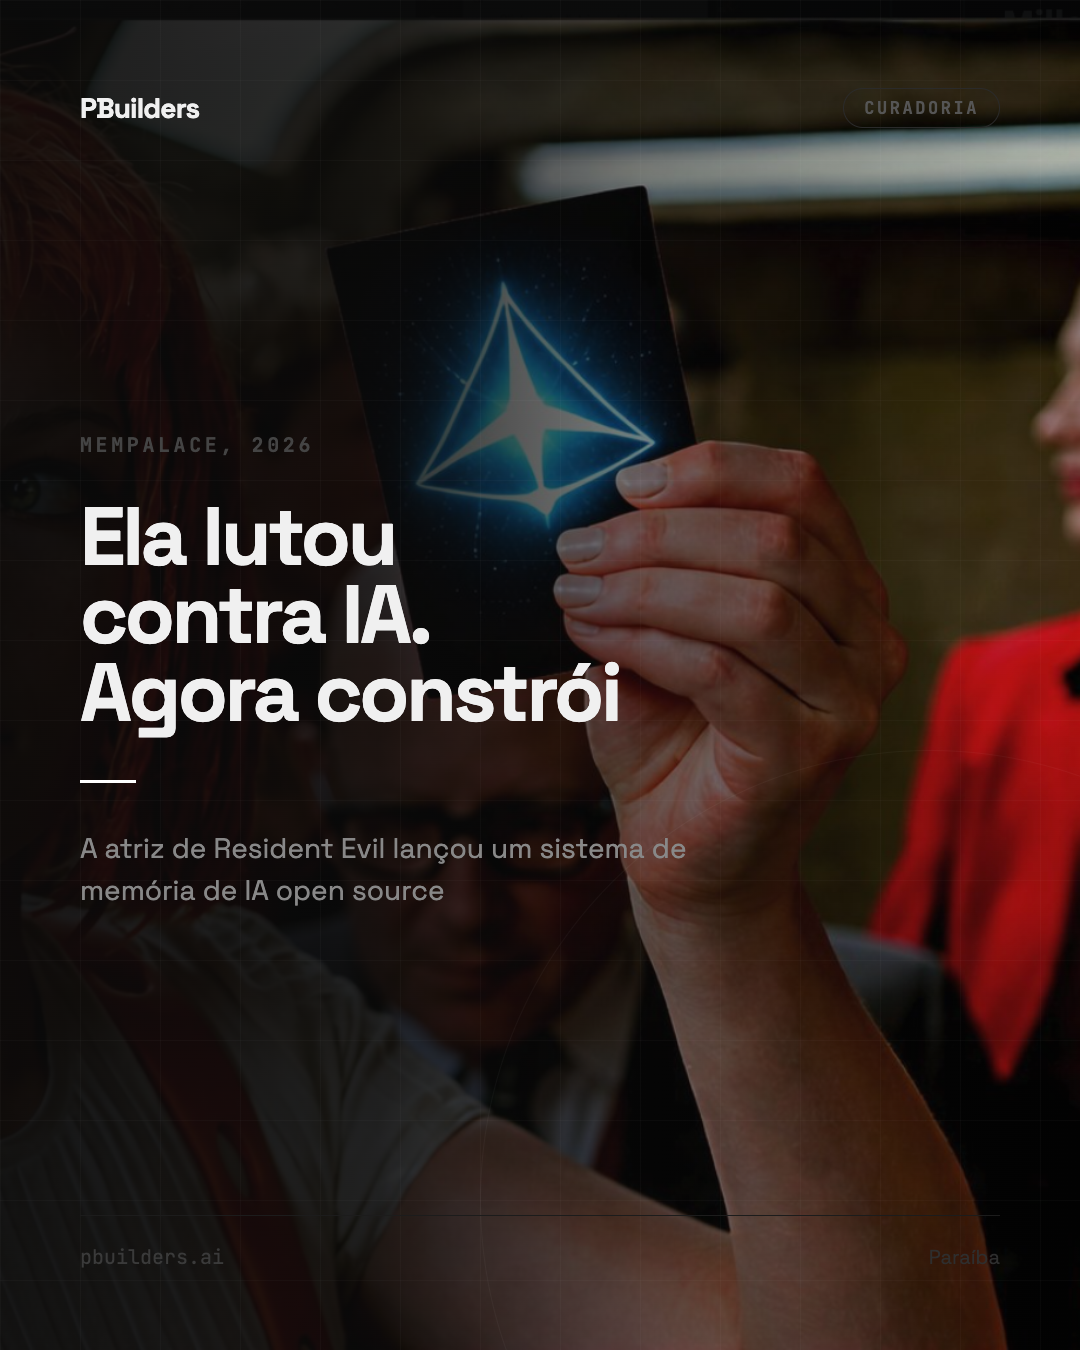
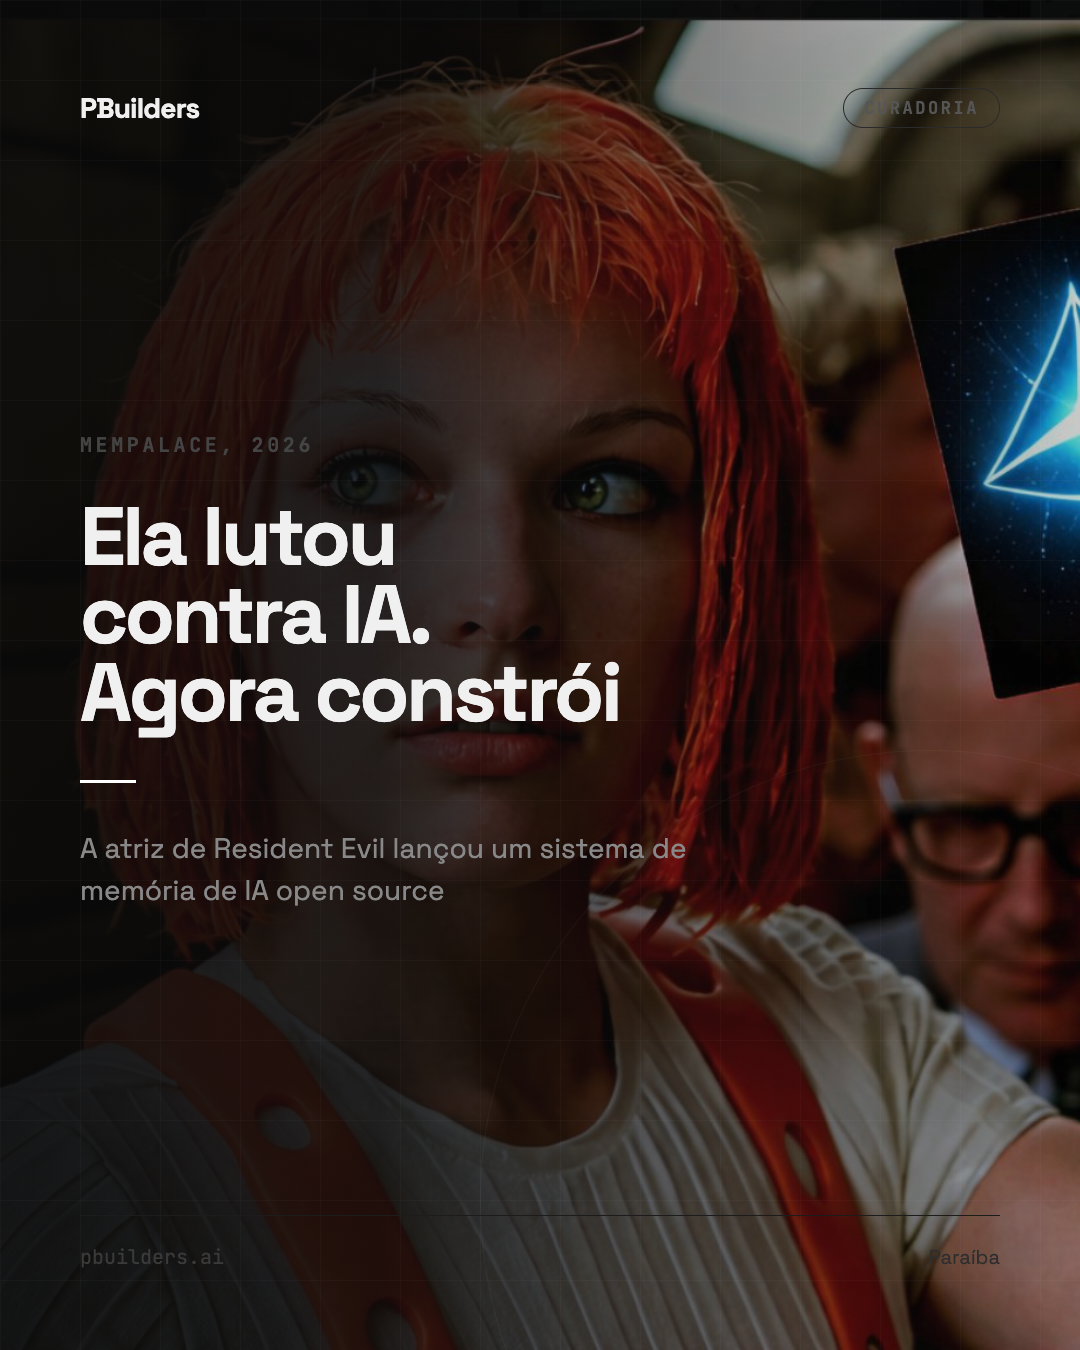
MemPalace: ajustar posição da foto — rosto da Milla visível

diff --git a/content/2026-04-08-mempalace/whatsapp-cover.html b/content/2026-04-08-mempalace/whatsapp-cover.html
@@ -27,7 +27,7 @@
           rgba(10,10,10,0.80) 30%,
           rgba(10,10,10,0.45) 60%,
           rgba(10,10,10,0.18) 100%),
-        url('milla.png') right center/cover no-repeat;
+        url('milla.png') 35% center/cover no-repeat;
       position: relative;
       overflow: hidden;
       display: flex;

diff --git a/content/2026-04-08-mempalace/instagram-carousel.html b/content/2026-04-08-mempalace/instagram-carousel.html
@@ -134,7 +134,7 @@
           rgba(10,10,10,0.85) 35%,
           rgba(10,10,10,0.50) 60%,
           rgba(10,10,10,0.20) 100%),
-        url('milla.png') right center/cover no-repeat;
+        url('milla.png') 35% center/cover no-repeat;
     }
 
     #s1 .eyebrow {
